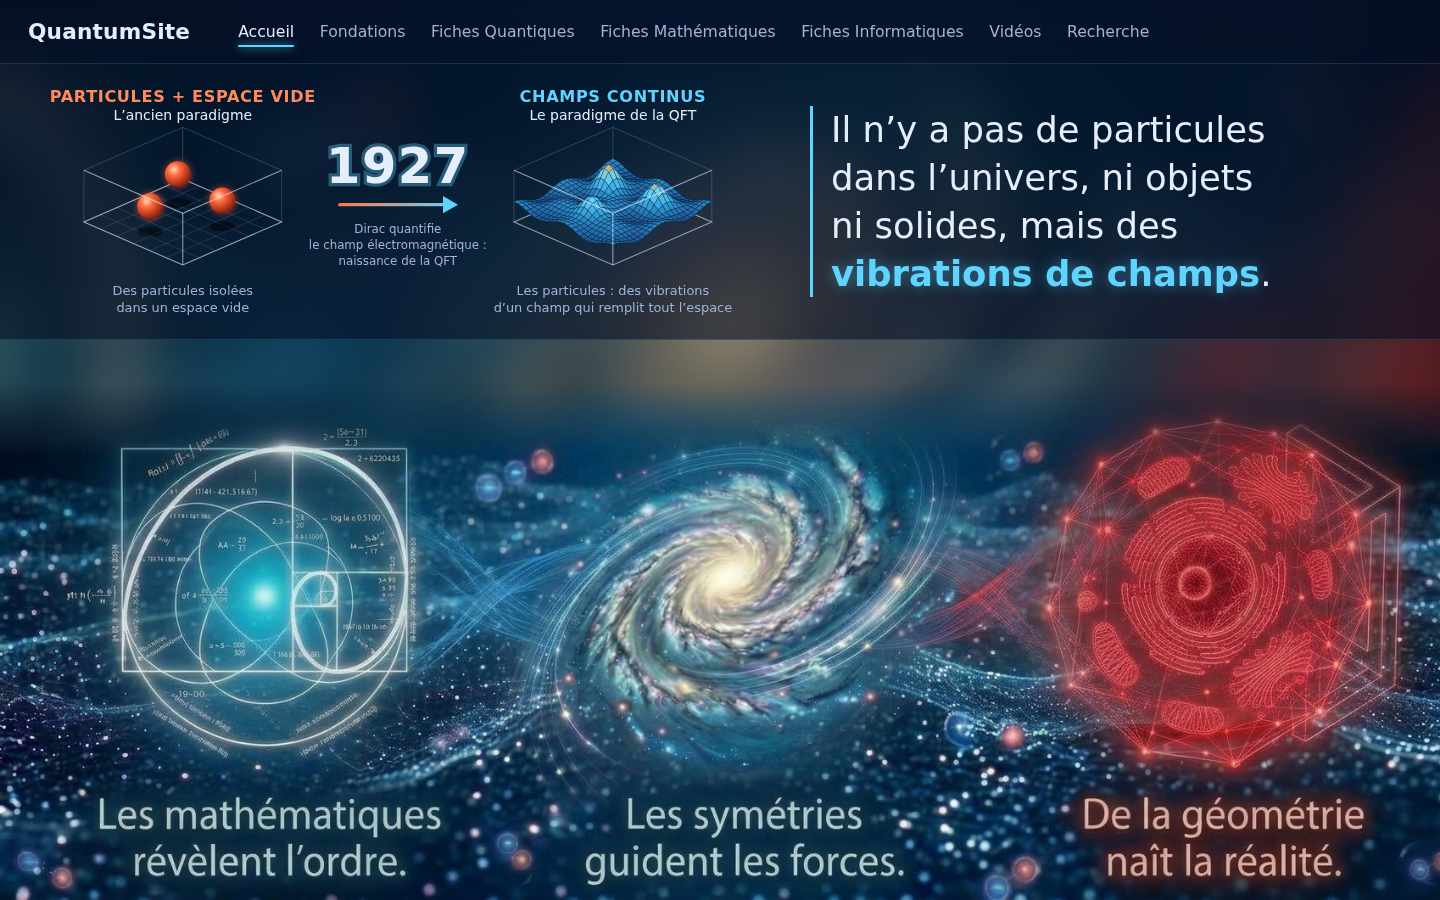
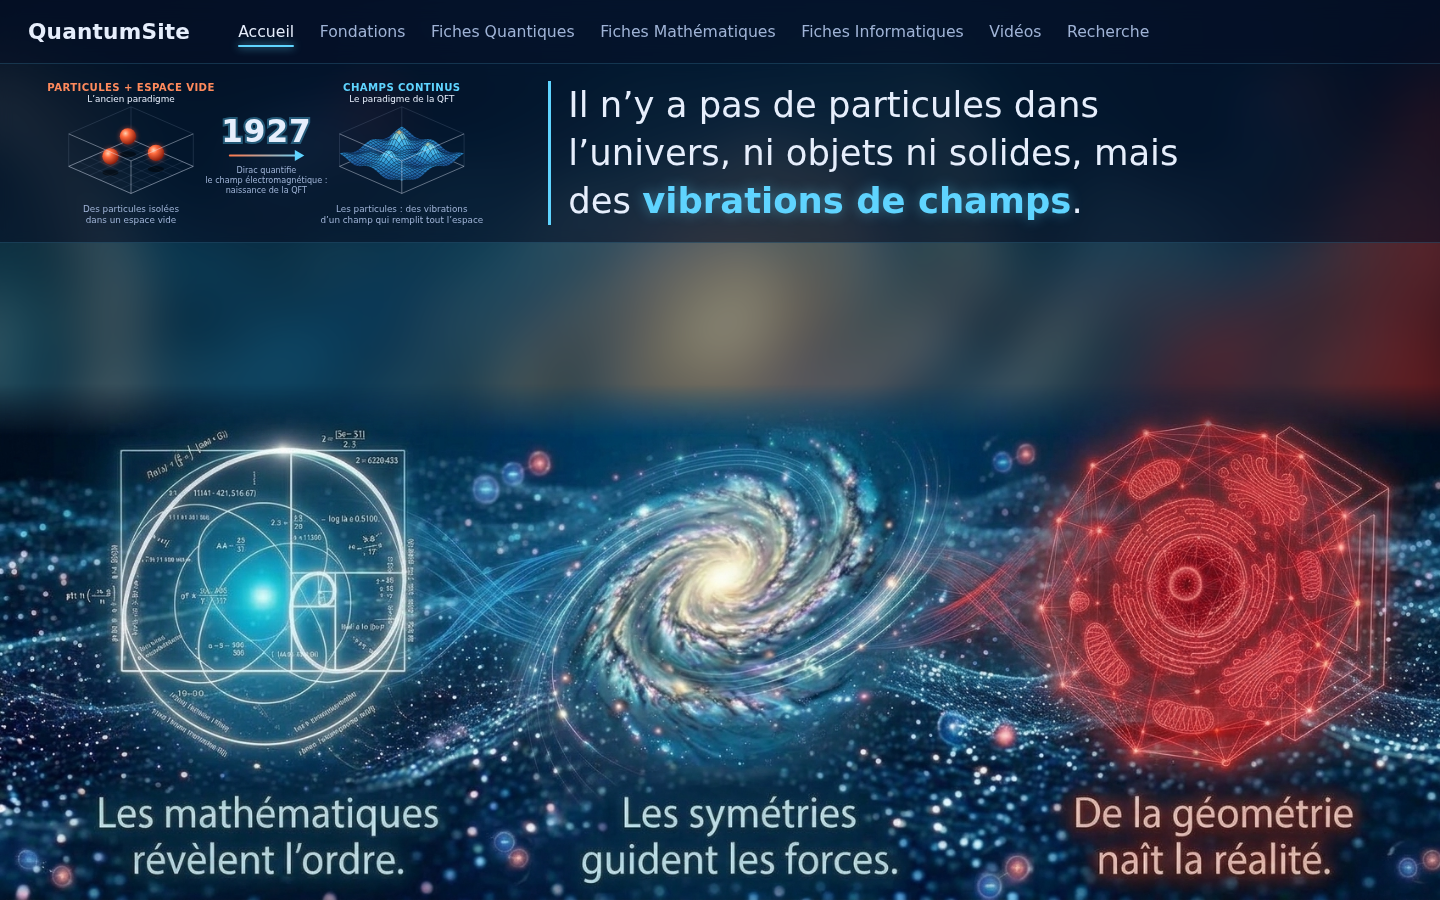
synch_agent: accueil-pleine-largeur-sans-ascenseur.zip (0 nouveaux, 3 modifiés)

diff --git a/css/style.css b/css/style.css
@@ -103,7 +103,7 @@ body {
 
 .scene {
   position: relative;
-  min-height: 100%;
+  height: 100%;          /* l'accueil tient exactement dans l'écran : jamais d'ascenseur */
   padding-top: var(--hauteur-entete);
   display: flex;
   flex-direction: column;
@@ -120,19 +120,36 @@ body {
   filter: blur(28px) brightness(0.55) saturate(1.2);
 }
 
-/* Premier plan : l'image entière, étalée d'un bord à l'autre de l'écran */
+/* Premier plan : l'espace laissé sous le bandeau, jusqu'en bas de l'écran */
 .scene-cadre {
   position: relative;
+  flex: 1 1 0;
+  min-height: 0;
   width: 100%;
-  margin-top: auto;      /* l'image repose en bas quand il reste de la place */
+  container-type: size;  /* mesure l'espace disponible (unités cqw / cqh) */
+  display: flex;
+  align-items: flex-end; /* l'image repose en bas de l'écran */
+}
+
+/* Fenêtre sur l'image : toujours de toute la largeur de l'écran.
+   Si la hauteur manque, on rogne le haut de l'image (ciel étoilé) plutôt que les côtés,
+   et presque rien en bas pour garder les légendes. */
+.scene-fenetre {
+  position: relative;
+  flex: 0 0 100%;
+  width: 100%;
+  height: min(100cqh, 100cqw * 608 / 1698);
+  overflow: hidden;
+  -webkit-mask-image: linear-gradient(to bottom, transparent 0, #000 10%, #000 100%);
+          mask-image: linear-gradient(to bottom, transparent 0, #000 10%, #000 100%);
 }
 
 .scene-image {
   display: block;
   width: 100%;
-  height: auto;
-  -webkit-mask-image: linear-gradient(to bottom, transparent 0, #000 14%, #000 100%);
-          mask-image: linear-gradient(to bottom, transparent 0, #000 14%, #000 100%);
+  height: 100%;
+  object-fit: cover;
+  object-position: 50% 88%;   /* 88 % du rognage pris en haut, 12 % en bas */
 }
 
 /* ---------- Page d'accueil : bandeau « ancien / nouveau paradigme » ---------- */
@@ -146,7 +163,7 @@ body {
   justify-content: space-between;
   gap: clamp(1.5rem, 4vw, 5rem);
   width: 100%;           /* bandeau d'un bord à l'autre */
-  padding: clamp(0.75rem, 1.8vh, 1.25rem) clamp(1rem, 3vw, 3.5rem);
+  padding: clamp(0.4rem, 1.4vh, 1.1rem) clamp(1rem, 3vw, 3.5rem);
   background: rgba(5, 13, 34, 0.55);
   border-bottom: 1px solid rgba(95, 212, 255, 0.18);
   backdrop-filter: blur(6px);
@@ -155,15 +172,15 @@ body {
 
 .schema-qft {
   flex: 0 0 auto;        /* le schéma, collé au bord gauche… */
-  height: clamp(150px, 27vh, 300px);
+  height: clamp(100px, 17vh, 260px);
   width: auto;
   max-width: 62%;
 }
 
 .schema-qft .qft-titre      { font-size: 15px; font-weight: 600; letter-spacing: 0.04em; }
 .schema-qft .qft-sous-titre { font-size: 13px; fill: var(--texte); }
-.schema-qft .qft-legende    { font-size: 12px; fill: var(--texte-doux); }
-.schema-qft .qft-note       { font-size: 11px; fill: var(--texte-doux); }
+.schema-qft .qft-legende    { font-size: 13px; fill: var(--texte-doux); }
+.schema-qft .qft-note       { font-size: 12px; fill: var(--texte-doux); }
 .schema-qft .qft-annee {
   font-size: 46px;
   font-weight: 600;
@@ -217,7 +234,7 @@ body {
   }
   .menu ul::-webkit-scrollbar { display: none; }
 
-  .scene { justify-content: center; }
+  .scene { height: auto; min-height: 100%; justify-content: center; padding-bottom: 1rem; }
 
   .bandeau-qft {
     flex-direction: column;
@@ -231,7 +248,9 @@ body {
     padding-left: 0;
     text-align: center;
   }
-  .scene-cadre { margin-top: 1rem; }
+  .scene-cadre { flex: 0 0 auto; container-type: normal; margin-top: 1rem; }
+  .scene-fenetre { height: auto; }
+  .scene-image { height: auto; }
 }
 
 @media (prefers-reduced-motion: reduce) {

diff --git a/index.html b/index.html
@@ -682,8 +682,10 @@
     </section>
 
     <div class="scene-cadre">
-      <img class="scene-image" src="images/fond-accueil.jpeg" width="1698" height="608"
-           alt="Trois panneaux lumineux : les mathématiques révèlent l'ordre, les symétries guident les forces, de la géométrie naît la réalité.">
+      <div class="scene-fenetre">
+        <img class="scene-image" src="images/fond-accueil.jpeg" width="1698" height="608"
+             alt="Trois panneaux lumineux : les mathématiques révèlent l'ordre, les symétries guident les forces, de la géométrie naît la réalité.">
+      </div>
     </div>
   </main>
 
